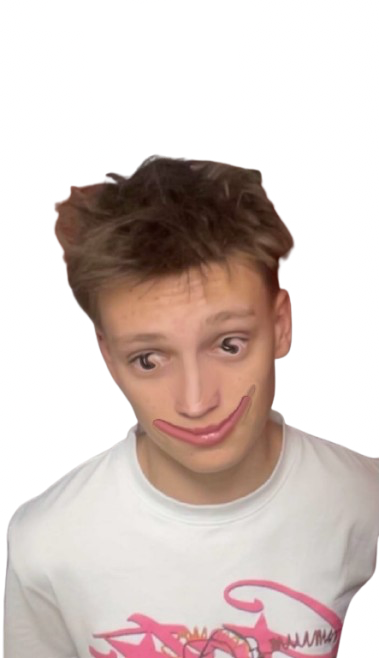
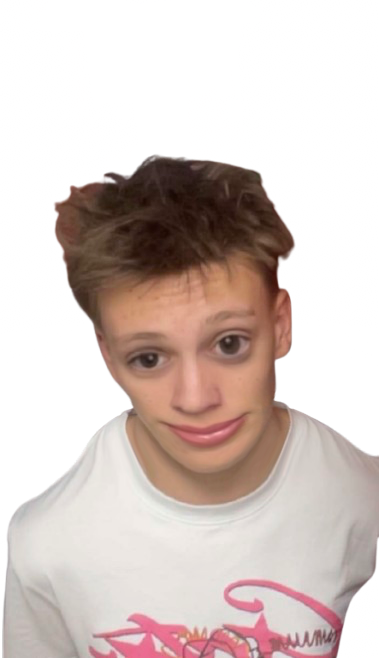
Robin: new photo, distorted in code (wide upturned grin, bulging eyes, sunken shadows)
Claude-Session: https://claude.ai/code/session_01FXBF7m3vSii76HQuaboH2f

diff --git a/scripts/robin/distort_robin.py b/scripts/robin/distort_robin.py
@@ -1,0 +1,55 @@
+"""
+Makes robin.png from the untouched photo (assets/robin/robin-source.png): a liquify-style warp —
+the smile stretched wide with the corners pulled up, eyes bulging (one more than the other) —
+plus sunken shadows under the eyes. Deterministic; re-run after changing the numbers:
+
+    python3 scripts/robin/distort_robin.py
+"""
+import numpy as np
+from PIL import Image
+
+SRC = 'assets/robin/robin-source.png'
+OUT = 'robin.png'
+
+img = np.asarray(Image.open(SRC).convert('RGBA')).astype(np.float32)
+H, W = img.shape[:2]
+y, x = np.mgrid[0:H, 0:W].astype(np.float32)
+sx, sy = x.copy(), y.copy()  # where each output pixel samples from
+
+# Grin: stretch the mouth sideways and lift its corners.
+mx, my = 205.0, 433.0
+dx, dy = x - mx, y - my
+w = np.exp(-((dx / 62) ** 2 + (dy / 24) ** 2))
+sx = mx + (sx - mx) / (1 + 0.95 * w)
+lift = np.exp(-((dx / 95) ** 2 + (dy / 30) ** 2)) * (np.clip(np.abs(dx) / 55, 0, 1.6) ** 2)
+sy = sy + 30 * lift
+
+# Eyes: bulge (magnify around the pupils), the right one more.
+for ex, ey, k in ((145.0, 352.0, 0.32), (232.0, 345.0, 0.42)):
+    r2 = (x - ex) ** 2 + (y - ey) ** 2
+    m = 1 - k * np.exp(-r2 / (17.0**2))
+    sx = ex + (sx - ex) * m
+    sy = ey + (sy - ey) * m
+
+
+def sample(im, X, Y):
+    X = np.clip(X, 0, W - 1.001)
+    Y = np.clip(Y, 0, H - 1.001)
+    x0, y0 = np.floor(X).astype(int), np.floor(Y).astype(int)
+    fx, fy = (X - x0)[..., None], (Y - y0)[..., None]
+    a = im[y0, x0] * (1 - fx) + im[y0, x0 + 1] * fx
+    b = im[y0 + 1, x0] * (1 - fx) + im[y0 + 1, x0 + 1] * fx
+    return a * (1 - fy) + b * fy
+
+
+out = sample(img, sx, sy)
+
+# Sunken eyes: soft dark shadows under and around each eye.
+shade = np.ones((H, W), np.float32)
+for ex, ey in ((145.0, 352.0), (232.0, 345.0)):
+    shade *= 1 - 0.2 * np.exp(-(((x - ex) / 22) ** 2 + ((y - ey - 12) / 7) ** 2))
+    shade *= 1 - 0.1 * np.exp(-(((x - ex) / 28) ** 2 + ((y - ey) / 18) ** 2))
+out[..., :3] *= shade[..., None]
+
+Image.fromarray(np.clip(out, 0, 255).astype(np.uint8), 'RGBA').save(OUT, optimize=True)
+print('wrote', OUT)

diff --git a/DECISIONS.md b/DECISIONS.md
@@ -95,3 +95,4 @@ Running log of technical decisions. Newest at the bottom.
 | 89 | 2026-11-12 | Look back: hold Q (rebindable; touch: hold BACK) and the view swings 180° in ~0.15 s; movement keeps your direction, so you can run and watch what's behind you; flashlight and hearing turn with the view | "A key to look back without turning." |
 | 90 | 2026-11-12 | U-shaped (switchback) staircases, 2 × 2 cells: flight A up half a storey, a flat landing across both columns, 180° turn, flight B up beside it (a wall between the flights); open stairwell above on the upper floor. Same slope as before (one ramp collider per flight + a landing block); nav heights ¼ / ½ / ¾; Robin uses them too | "Make the stairs U-shaped." Tested: a bot walks landing → flight → landing → flight → next floor. |
 | 91 | 2026-11-12 | Lights fixed: (1) no more tubes floating in stairwells (stair cells have no ceiling) — one tube on the upper floor's ceiling above the mid landing lights the whole stairwell; (2) the real-light pool only goes to tubes reachable on foot within 5 cells (through doors, openings and stairs), never to tubes behind walls or on other floors — unshadowed lights were shining through walls and slabs; (3) pool lights fade in/out (~0.3 s) and keep their tube when it stays wanted, so lights no longer pop as you walk; light range 12 → 10 m. Verified: walking up a staircase keeps 4/4 lights lit, handing over lower floor → stairwell → upper floor | "The lights are broken and weird with the stairs." |
+| 92 | 2026-11-12 | robin.png is now generated from your new untouched photo (`assets/robin/robin-source.png`) by `scripts/robin/distort_robin.py`: the smile stretched wide with the corners pulled up, eyes bulging (the right one more), soft sunken shadows under the eyes. Same framing, so the 3D face, billboard and scare all line up | "Use this image for robin.png and distort it yourself." Re-run the script to tweak the numbers. |
